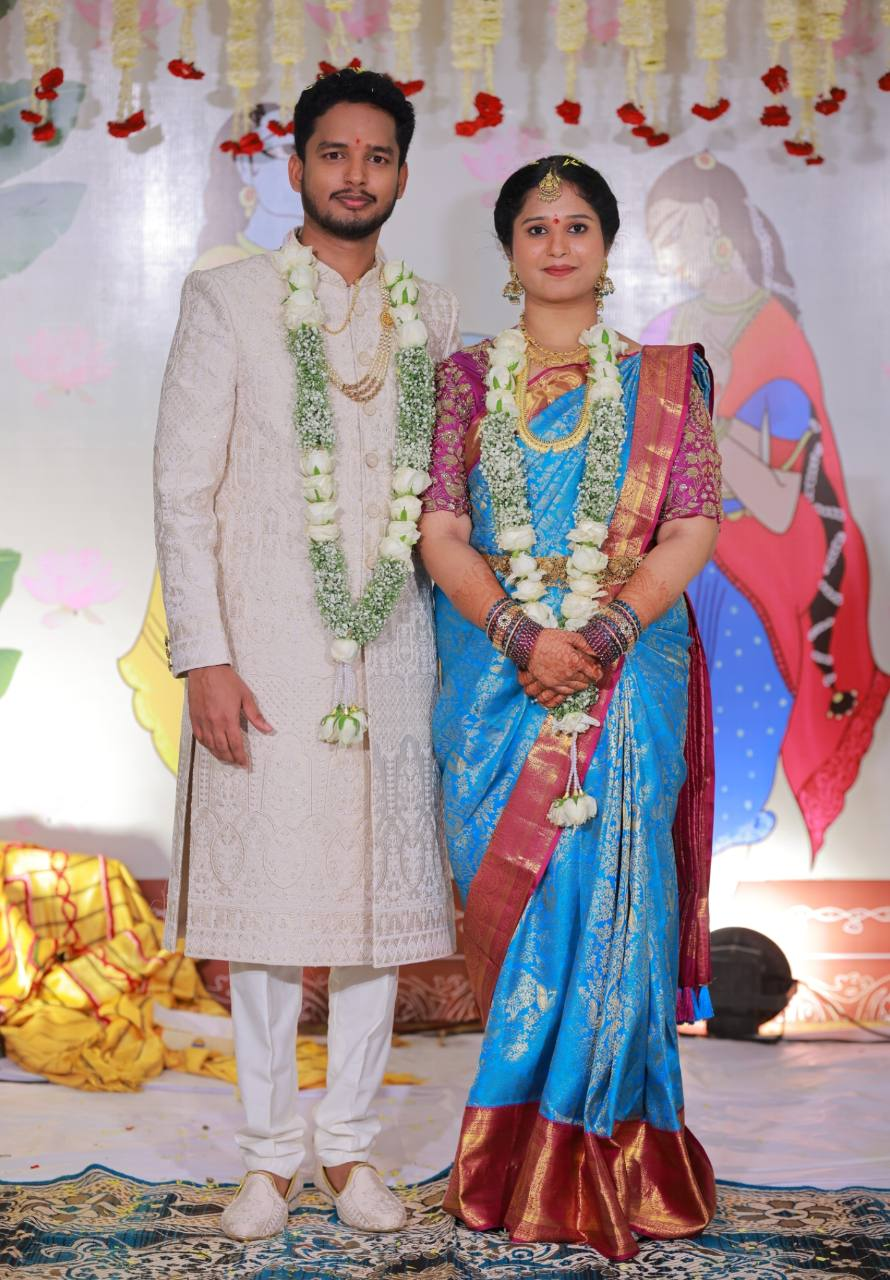
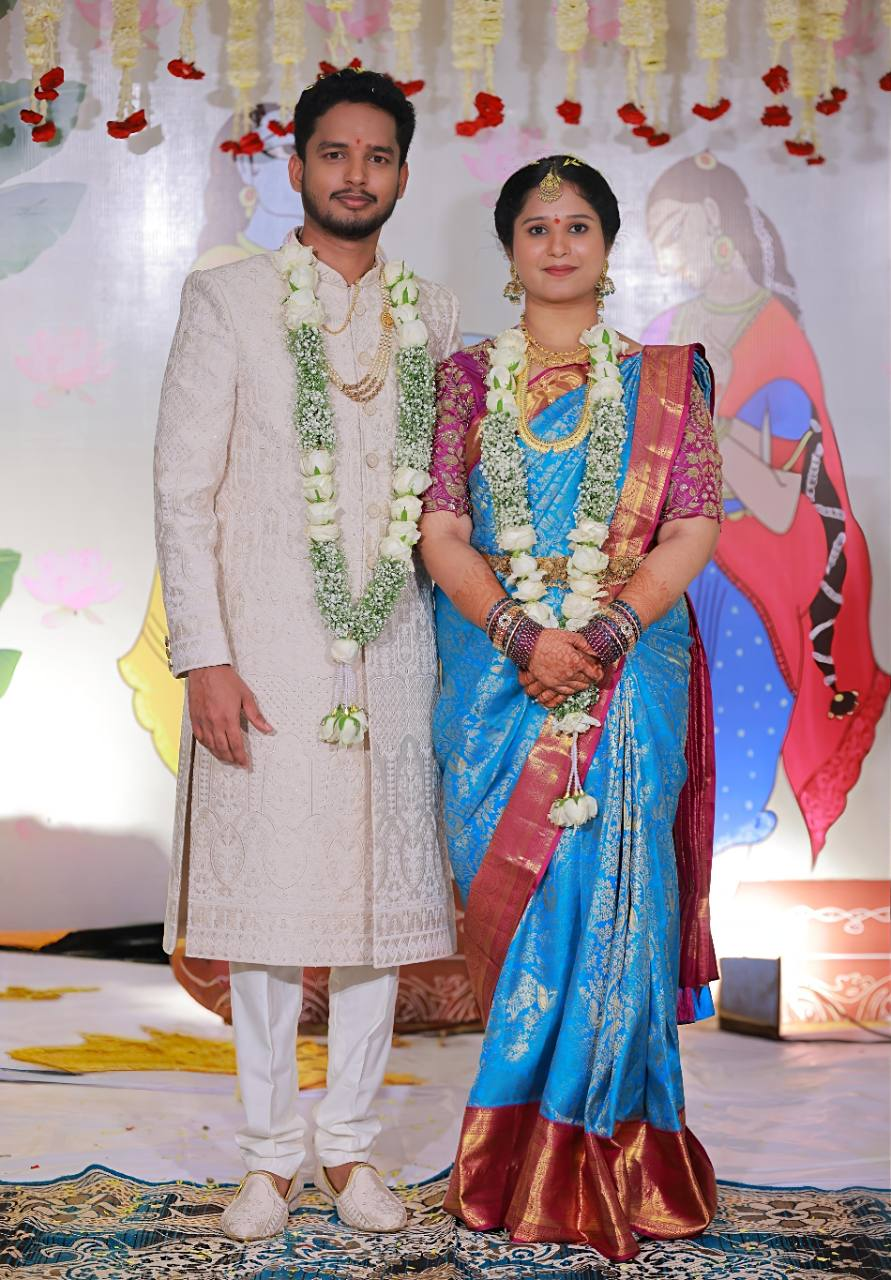
Replace couple portrait with updated photo

diff --git a/src/main.js b/src/main.js
@@ -30,7 +30,7 @@ document.querySelector("#app").innerHTML = `
   </header>
   <main>
     <section class="hero" id="home" aria-labelledby="couple-name">
-      <figure class="hero-photo"><img src="${couplePhoto}" alt="Nikhil and Sravanthi together in traditional attire" lang="en" translate="no" width="890" height="1280" fetchpriority="high" decoding="async" /></figure>
+      <figure class="hero-photo"><img src="${couplePhoto}" alt="Nikhil and Sravanthi together in traditional attire" lang="en" translate="no" width="891" height="1280" fetchpriority="high" decoding="async" /></figure>
       <div class="hero-shade" aria-hidden="true"></div>
       <span class="hero-edition" lang="en">THE WEDDING OF</span>
       <button class="photo-expand" id="open-photo" type="button" aria-label="View full photograph">${expand}</button>
@@ -90,7 +90,7 @@ document.querySelector("#app").innerHTML = `
   </main>
   <footer><span class="footer-monogram" lang="en" translate="no">N & S</span><p>ప్రేమతో ఆహ్వానిస్తున్నాం</p><span lang="en">2026</span></footer>
   <nav class="invitation-dock" aria-label="ప్రధాన నావిగేషన్"><a href="#invitation">${heart}<span>ఆహ్వానం</span></a><a href="#muhurtham">${calendar}<span>ముహూర్తం</span></a><a href="#venue">${pin}<span>వేదిక</span></a></nav>
-  <dialog class="photo-dialog" id="photo-dialog" aria-label="Nikhil and Sravanthi photograph" lang="en" translate="no"><button id="close-photo" type="button" aria-label="Close photograph">${close}</button><img src="${couplePhoto}" alt="Nikhil and Sravanthi, full portrait" width="890" height="1280" /><p lang="en">Nikhil & Sravanthi</p></dialog>
+  <dialog class="photo-dialog" id="photo-dialog" aria-label="Nikhil and Sravanthi photograph" lang="en" translate="no"><button id="close-photo" type="button" aria-label="Close photograph">${close}</button><img src="${couplePhoto}" alt="Nikhil and Sravanthi, full portrait" width="891" height="1280" /><p lang="en">Nikhil & Sravanthi</p></dialog>
 `;
 
 const photoDialog = document.getElementById("photo-dialog");

diff --git a/tests/invitation.spec.js b/tests/invitation.spec.js
@@ -87,7 +87,7 @@ test("full-photo viewer shows the original portrait and returns keyboard focus w
       portrait.evaluate(
         (image) =>
           image.complete &&
-          image.naturalWidth === 890 &&
+          image.naturalWidth === 891 &&
           image.naturalHeight === 1280,
       ),
     )
